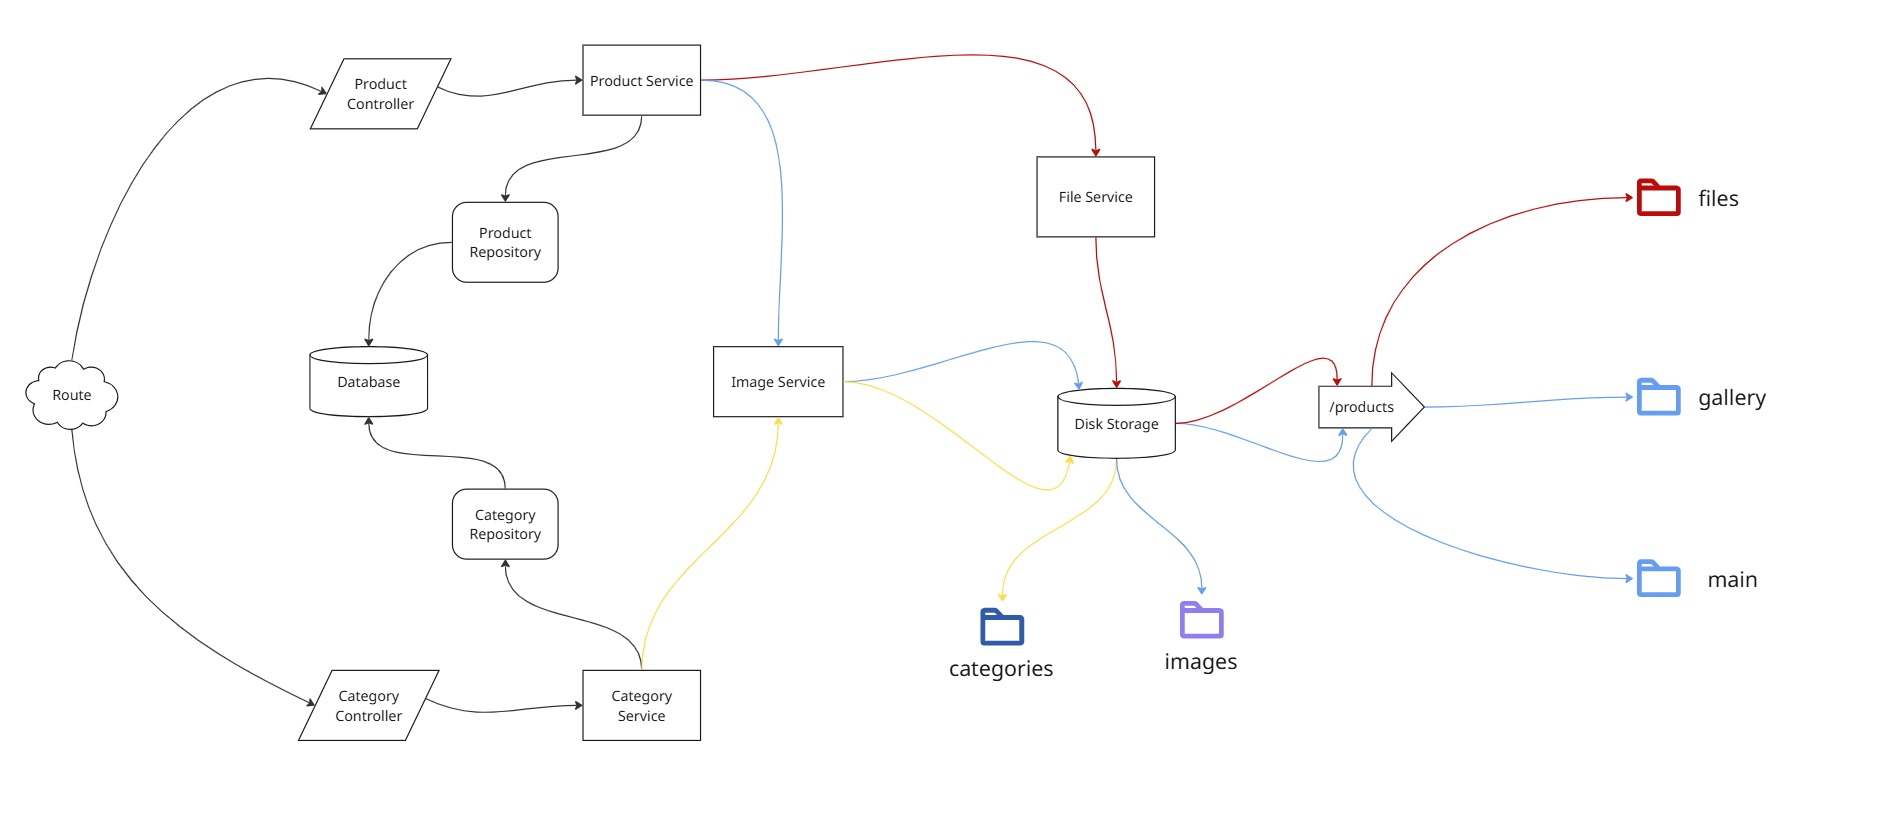
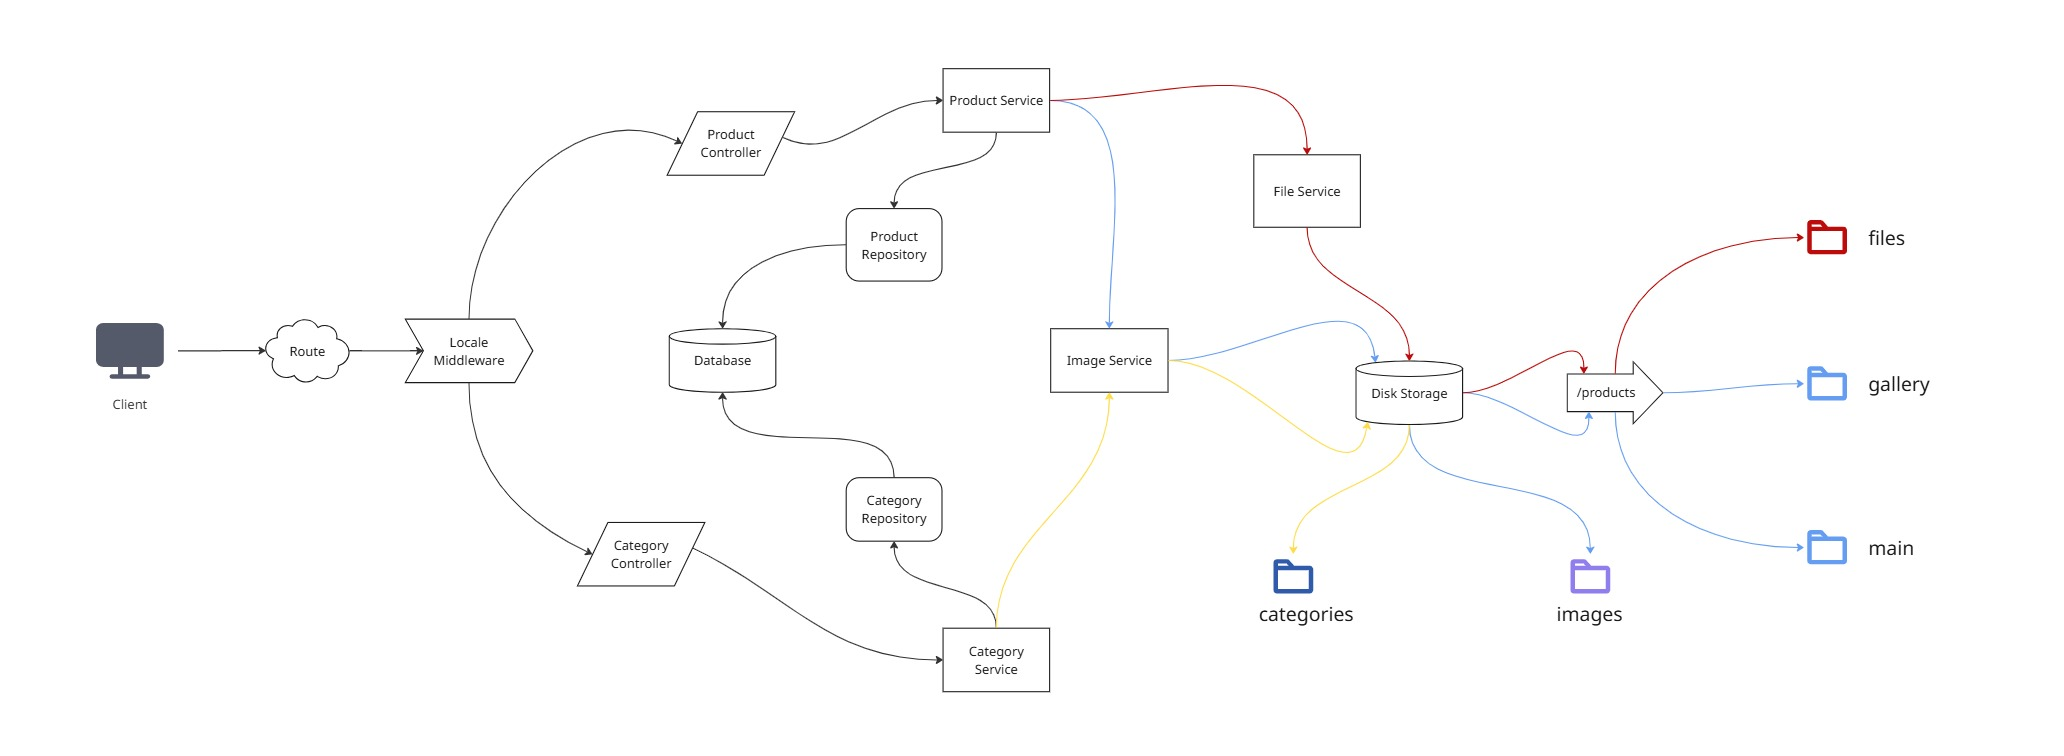
docs(architecture): update

diff --git a/app/Models/Category.php b/app/Models/Category.php
@@ -118,7 +118,7 @@ class Category extends Model
         }
 
         // no loops
-        $child = Category::findOrFail($childId); // exception if childId is not existing
+        $child = Category::findOrFail($childId); 
         if ($child && $child->isDescendantOf($this->id)) {
             return false;
         }